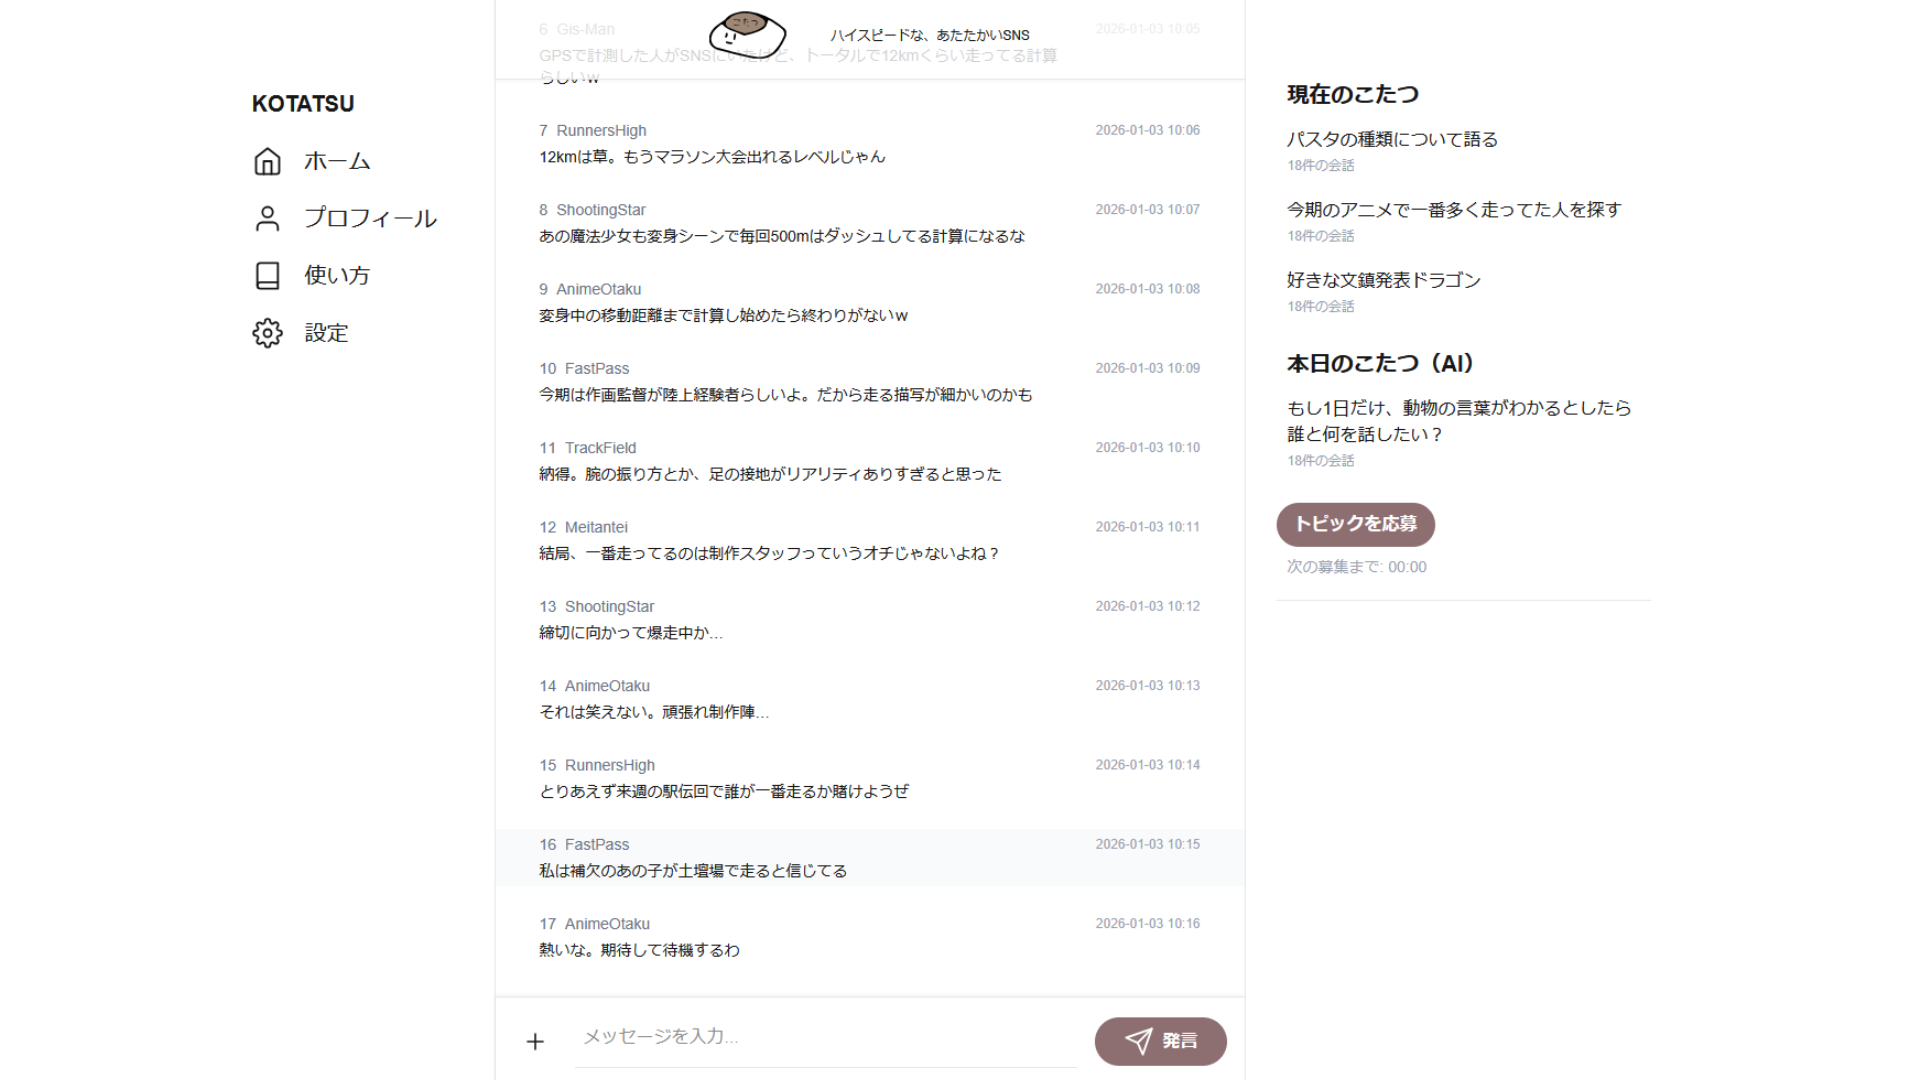
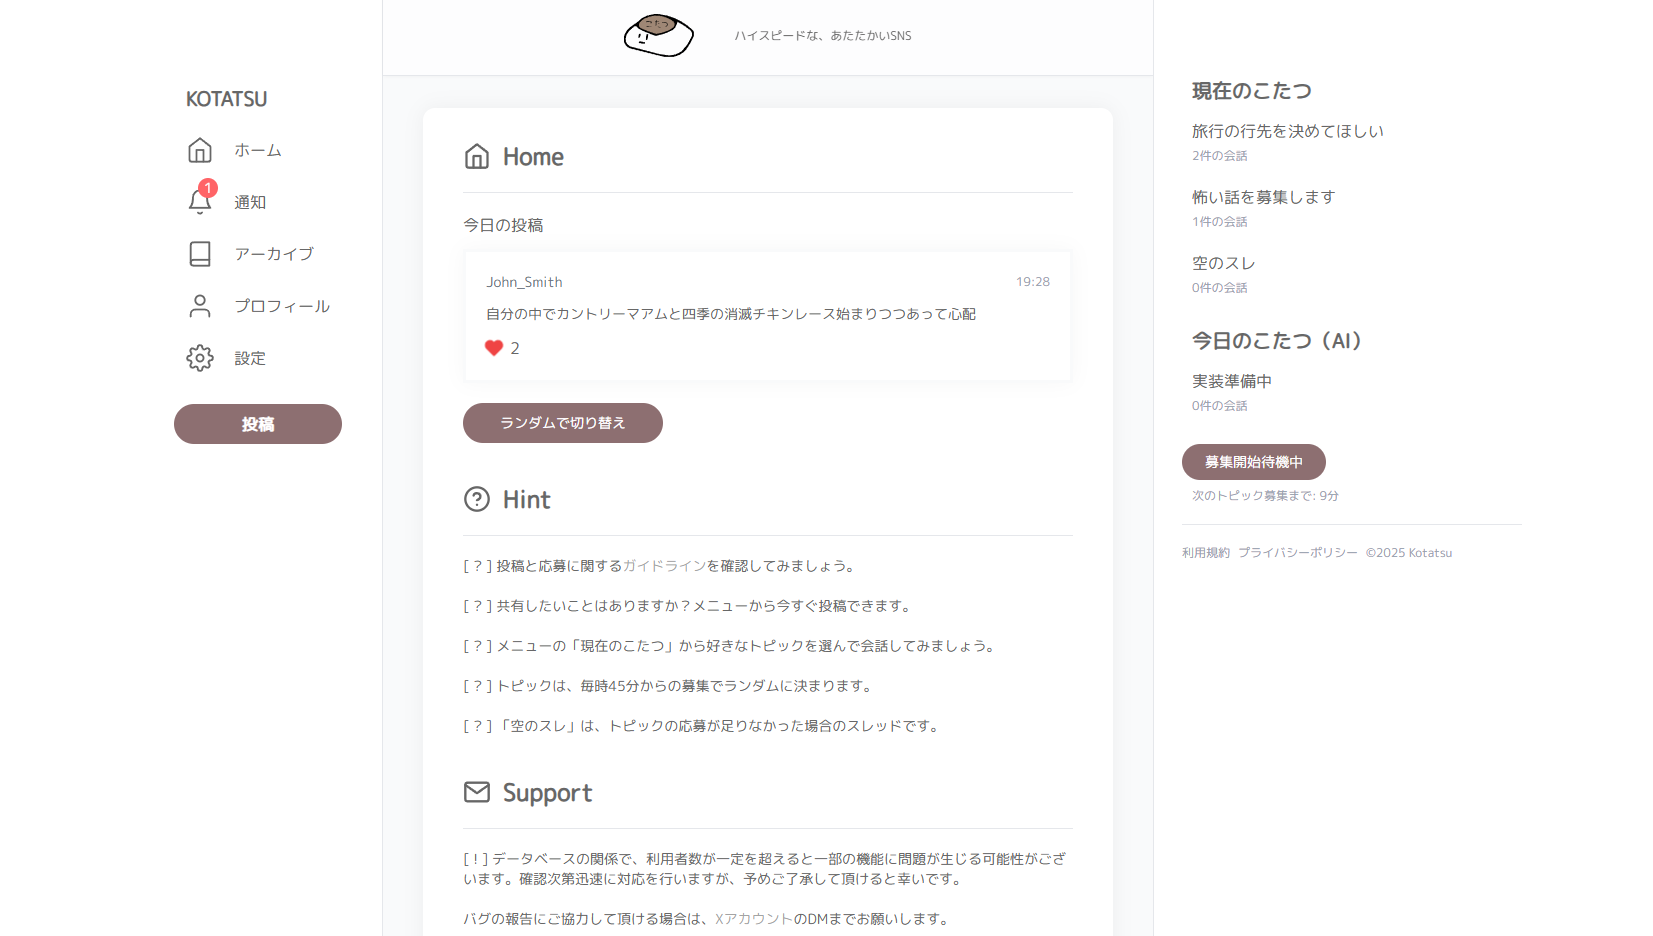
スクリーンショットの更新と背景部分への外枠追加

diff --git a/src/app/archive/page.tsx b/src/app/archive/page.tsx
@@ -54,21 +54,23 @@ export default function ArchiveList() {
     return (
         <div className="flex flex-col items-center min-h-screen bg-secondbg">
 
-            <div className="w-80 md:w-[690px] bg-background text-foreground min-h-full mx-10 my-8 px-10 py-8 rounded-xl shadow-[0px_0px_20px_0.1px_rgba(0,3,3,0.05)]">
+            <div className="w-80 md:w-[690px] bg-background text-foreground min-h-full mx-10 my-8 px-10 py-8 rounded-xl border-secondbg border-5 shadow-[0px_0px_20px_0.1px_rgba(0,3,3,0.05)]">
                 <div className="flex flex-col">
                     <div className="flex flex-col border-b border-gray-200 mb-5">
                         <div className="flex items-center gap-3">
-                        <FiBook className="w-7 h-7"/>
-                        <div className="text-2xl font-bold">Archive</div>
+                            <FiBook className="w-7 h-7" />
+                            <div className="text-2xl font-bold">Archive</div>
                         </div>
                         <div className="text-base mb-5 mt-2">最近のこたつを5個まで遡って見ることができます。</div>
                     </div>
                     <div className="flex flex-col">
                         {archives?.map((thread) => (
-                            <Link key={thread.id} href={`/archive/${thread.id}`} className="mb-5 py-1 hover:bg-gray-100">
+                            <Link key={thread.id} href={`/archive/${thread.id}`} className="mb-5 py-1">
                                 <div className="flex flex-col">
-                                    <span>{thread.title}</span>
-                                    <span className="text-gray-400 text-sm">{thread.first_statement}</span>
+                                    <div className="flex flex-col justify-center w-full bg-background text-foreground h-20 px-10 py-8 rounded-xl shadow-[0px_0px_20px_0.1px_rgba(0,3,3,0.03)]">
+                                        <span>{thread.title}</span>
+                                        <span className="text-gray-400 text-sm">{thread.first_statement}</span>
+                                    </div>
                                 </div>
                             </Link>
                         ))}

diff --git a/src/app/components/applyButton.tsx b/src/app/components/applyButton.tsx
@@ -104,7 +104,7 @@ export default function ApplyButton() {
                         <div className="text-right text-sm text-gray-500">残り{maxTitleChar - title.length}文字</div>
 
                         <p className="mb-3">最初の発言</p>
-                        <textarea value={firstStatement} onChange={(e) => setFirstStatement(e.target.value)} name="" id="" maxLength={maxchar} placeholder="セールが来てるのに何買えばいいかわからないので頼む" className="w-full h-20 border p-1.5 border-gray-200 rounded-lg mb-1 resize-none"></textarea>
+                        <textarea value={firstStatement} onChange={(e) => setFirstStatement(e.target.value)} name="" id="" maxLength={maxchar} placeholder="最初に投稿される文章を入力..." className="w-full h-20 border p-1.5 border-gray-200 rounded-lg mb-1 resize-none"></textarea>
                         <div className="text-right text-sm text-gray-500">残り{maxchar - firstStatement.length}文字</div>
                         <div className="flex justify-end mt-5 items-center gap-5">
                             {pushApply && <p className="text-black text-sm">応募が完了しました！ :)</p>}

diff --git a/src/app/home/page.tsx b/src/app/home/page.tsx
@@ -64,7 +64,7 @@ export default function Profile() {
     return (
         <div className="flex items-center flex-col md:min-h-screen bg-secondbg">
 
-            <div className="w-80 md:w-[690px] bg-background text-foreground min-h-screen mx-10 my-8 px-10 py-8 rounded-xl shadow-[0px_0px_20px_0.1px_rgba(0,3,3,0.05)]">
+            <div className="w-80 md:w-[690px] bg-background text-foreground min-h-screen mx-10 my-8 px-10 py-8 rounded-xl border-secondbg border-4 shadow-[0px_0px_20px_0.1px_rgba(0,3,3,0.05)]">
                 <div className="flex flex-col h-350 md:h-screen">
                     <div className="flex items-center border-b border-gray-200 mb-5 gap-3">
                         <FiHome className="w-7 h-7 mb-5" />

diff --git a/src/app/notifications/page.tsx b/src/app/notifications/page.tsx
@@ -55,7 +55,7 @@ export default function notifications() {
     return (
         <div className="flex flex-col items-center min-h-screen bg-secondbg">
 
-            <div className="w-80 md:w-[690px] bg-background text-foreground min-h-full mx-10 my-8 px-10 py-8 rounded-xl shadow-[0px_0px_20px_0.1px_rgba(0,3,3,0.05)]">
+            <div className="w-80 md:w-[690px] bg-background text-foreground min-h-full mx-10 my-8 px-10 py-8 rounded-xl border-secondbg border-4 shadow-[0px_0px_20px_0.1px_rgba(0,3,3,0.05)]">
                 <div className="flex flex-col">
                     <div className="flex flex-col border-b border-gray-200 mb-5">
                         <div className="flex items-center gap-3 mb-5">

diff --git a/src/app/setting/page.tsx b/src/app/setting/page.tsx
@@ -61,7 +61,7 @@ export default function Profile() {
     return (
         <div className="flex items-center flex-col min-h-screen bg-secondbg">
 
-            <div className="w-80 md:w-[690px] bg-background text-foreground mx-10 my-8 px-10 py-8 rounded-xl shadow-[0px_0px_20px_0.1px_rgba(0,3,3,0.05)]">
+            <div className="w-80 md:w-[690px] bg-background text-foreground mx-10 my-8 px-10 py-8 rounded-xl border-secondbg border-4 shadow-[0px_0px_20px_0.1px_rgba(0,3,3,0.05)]">
                 <div className="flex flex-col md:h-full">
                     <div className="flex items-center border-b border-gray-200 mb-5 gap-3">
                         <FiSettings className="w-7 h-7 mb-5" />

diff --git a/src/app/profile/page.tsx b/src/app/profile/page.tsx
@@ -44,7 +44,7 @@ export default function Profile() {
     return (
         <div className="flex flex-col items-center min-h-screen bg-secondbg">
 
-            <div className="w-80 md:w-[690px] bg-background text-foreground h-100 mx-10 my-8 px-10 py-8 rounded-xl shadow-[0px_0px_20px_0.1px_rgba(0,3,3,0.05)]">
+            <div className="w-80 md:w-[690px] bg-background text-foreground h-100 mx-10 my-8 px-10 py-8 rounded-xl border-secondbg border-4 shadow-[0px_0px_20px_0.1px_rgba(0,3,3,0.05)]">
                 <div className="flex flex-col">
                     <div className="flex items-center border-b border-gray-200 mb-5 gap-3">
                         <FiUser className="w-7 h-7 mb-5" />

diff --git a/src/app/components/randompost.tsx b/src/app/components/randompost.tsx
@@ -17,10 +17,7 @@ export default function RandomPost({changePostTrigger}: {changePostTrigger: numb
         setlikeCount(0);
         setpost(null);
 
-        const { data: postData, error } = await supabase.rpc('get_random_post', {exclude_id: lastPost.current ? String(lastPost.current):""});
-        if(error) {
-            console.error(error.message);
-        }
+        const { data: postData } = await supabase.rpc('get_random_post', {exclude_id: lastPost.current ? String(lastPost.current):null});
 
         if (postData && postData.length > 0) {
             const randomPost = postData[0];
